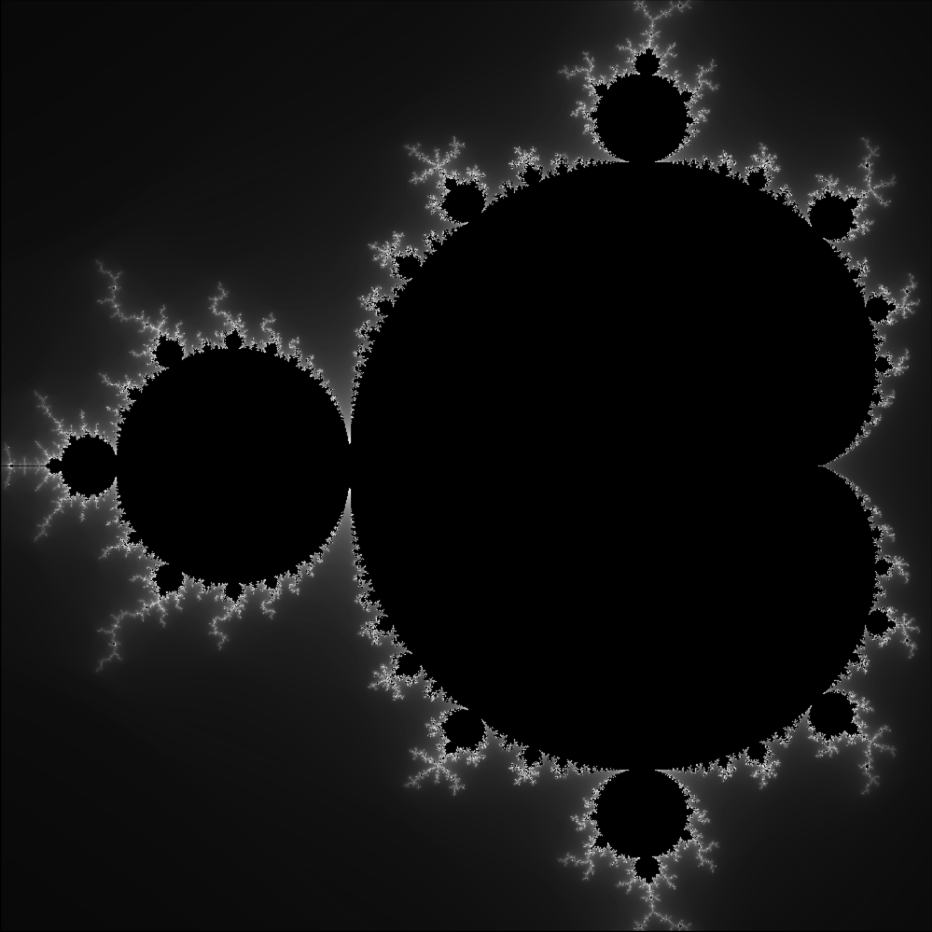
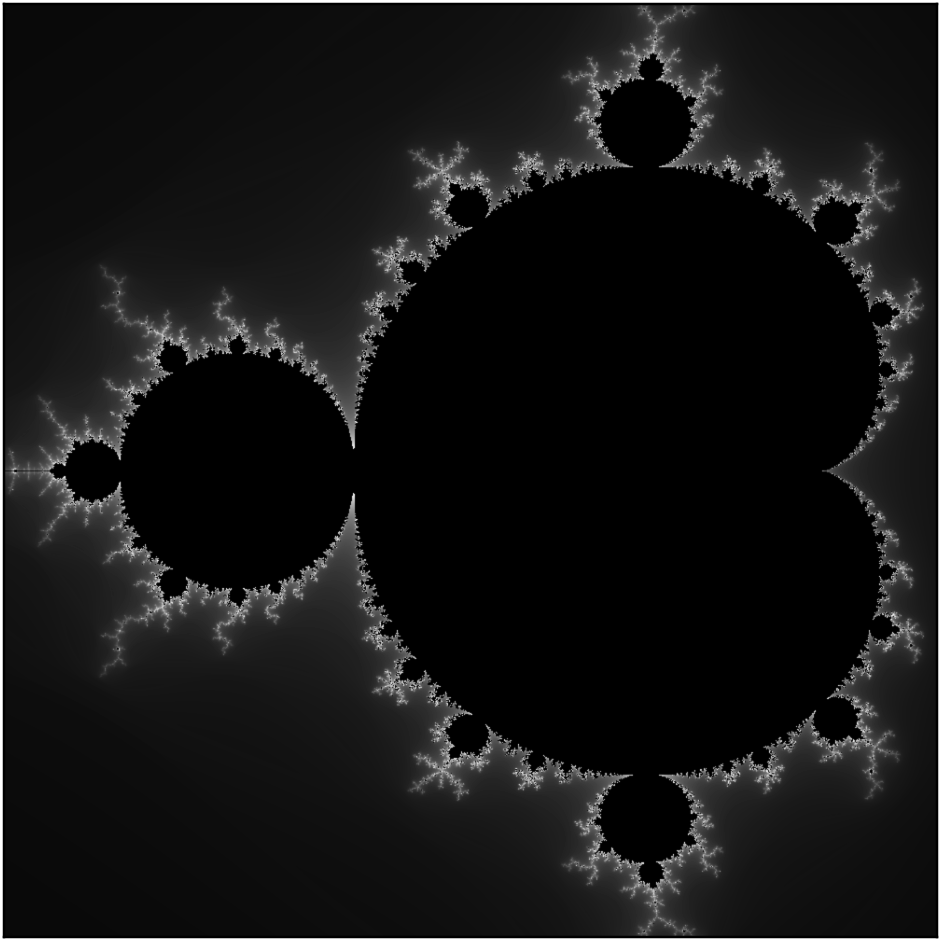
figure borders

diff --git a/functions/mandelbrot/mandelbrot.py b/functions/mandelbrot/mandelbrot.py
@@ -146,6 +146,6 @@ def create_image(real_start, real_end, imag_start, imag_end, max_iters, width, h
     plt.tight_layout()
     buffer = io.BytesIO()
     plt.savefig(buffer, bbox_inches='tight', format=format,
-                pad_inches=0)  # Place the image as a binary in memory
+                pad_inches=0.02)  # Place the image as a binary in memory
     buffer = buffer.getvalue()
     return buffer   # Return the image binary (avoids saving to disk)
